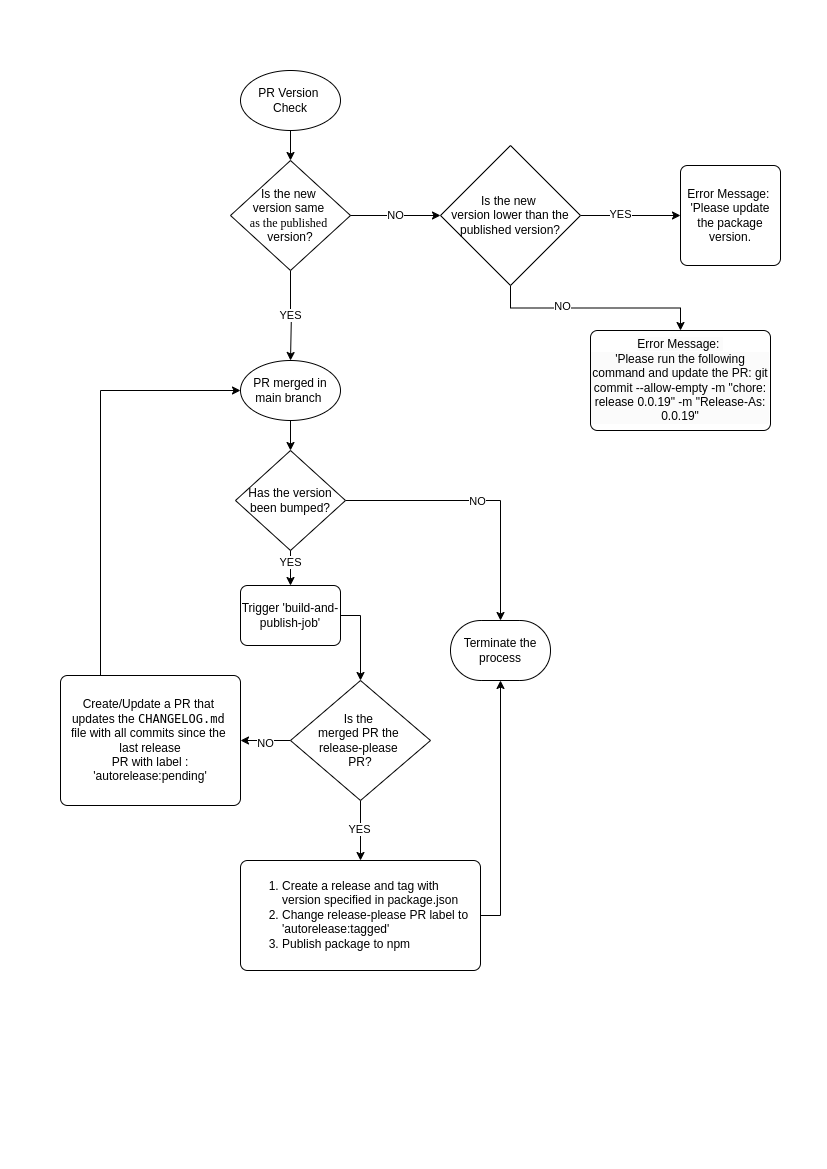
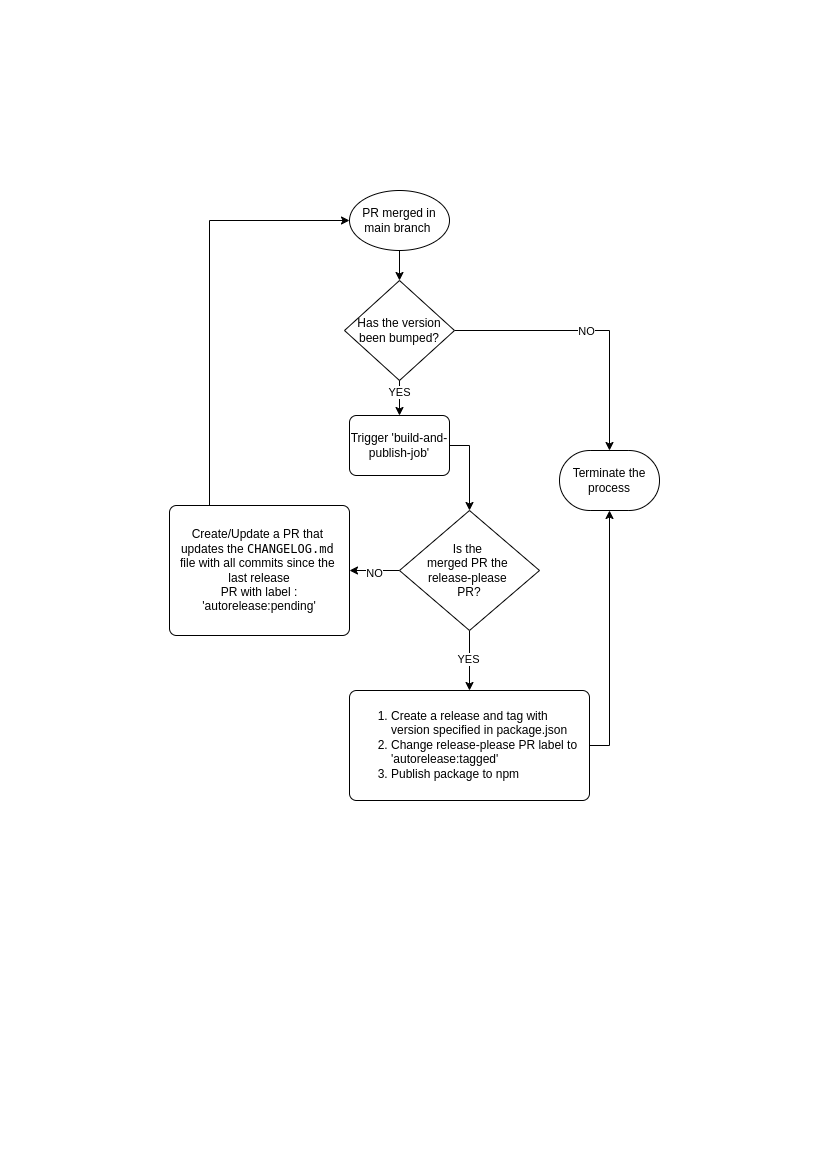
docs: remove redundant steps in checks.yml

diff --git a/docs/release-process/release-process.md b/docs/release-process/release-process.md
@@ -6,7 +6,6 @@ The release process is divided into several steps, which ensure that the version
 
 ## Release Process Steps
 
-- [Version Check in Pull Requests](#version-check-in-pull-requests)
 - [Version Check Upon PR Merge](#version-check-upon-pr-merge)
 - [Trigger Build and Publish Job](#trigger-build-and-publish-job)
 - [Automatic Changelog Update](#automatic-changelog-update)
@@ -18,21 +17,6 @@ The release process is divided into several steps, which ensure that the version
 - [Release Process Flow Diagram](#release-process-flow-diagram)
 
 This process is designed to minimize errors and automate as much of the release process as possible.
-
-## Version Check in Pull Requests
-
-Every time a pull request (PR) is created or updated, the version in the PR is compared against the currently published version:
-
-1. **Is the new version the same as the published version?**
-
-   - If **YES**, proceed to merge the PR into the main branch.
-   - If **NO**, continue to the next check.
-
-2. **Is the new version lower than the published version?**
-   - If **YES**, the PR author is prompted with an error message:  
-     `Please update the package version.`
-   - If **NO**, the PR author is prompted with an error message to run a specific git command:  
-     `Please run the following command and update the PR: git commit --allow-empty -m "chore: release 0.0.19" -m "Release-As: 0.0.19"`
 
 ## Version Check Upon PR Merge
 
